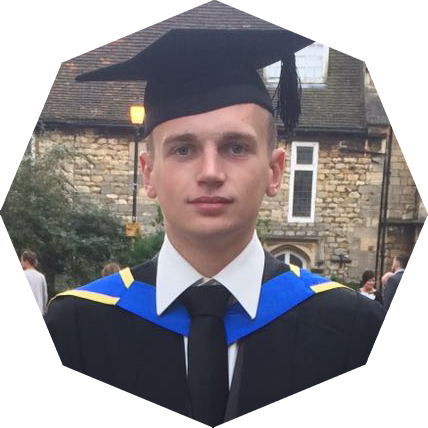
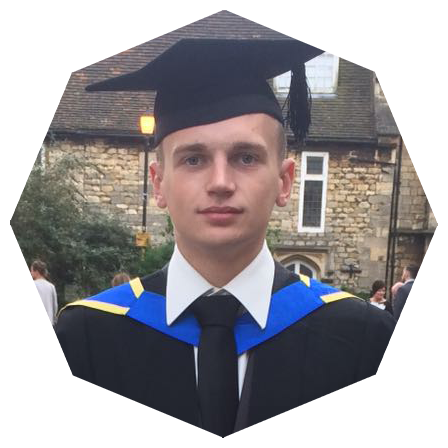
Vertically aligned content on last page, moved side bar to top for mobile, added glow for 3 selfie oct images

diff --git a/index.css b/index.css
@@ -16,21 +16,6 @@ h1 {
 	height: 100vh;
 }
 
-#underCons {
-	position: absolute;
-	top: 100px;
-	left: 75vw;
-	text-align: center;
-	font-size: 30px;
-	transform: rotateZ(25deg);
-	font-family: "Lucida Console", serif;
-	-webkit-animation:   UnderConstructionCycle 2.5s infinite; /* Safari 4+ */
-    -moz-animation:    	 UnderConstructionCycle 2.5s infinite; /* Fx 5+ */
-    -o-animation:      	 UnderConstructionCycle 2.5s infinite; /* Opera 12+ */
-    animation:         	 UnderConstructionCycle 2.5s infinite; /* IE 10+, Fx 29+ */
-    animation-timing-function: ease-in-out;
-}
-
 
 
 @keyframes UnderConstructionCycle {
@@ -87,10 +72,10 @@ h1 {
 	margin: -30px 0 0 -90px;
 }  
 .fixNavArrows h1:nth-child(1){
-	transform: translate( 75px, 0vh) rotateZ(-90deg)	
+	transform: translate( 75px, 0vh) rotateZ(-90deg);
 }  
 .fixNavArrows h1:nth-child(2){
-	transform: translate( 75px, calc(100vh - 200px )) rotateZ(-90deg)	
+	transform: translate( 75px, calc(100vh - 200px )) rotateZ(-90deg);
 }  
 .fixNavArrows h1 a{
 	color: white;
@@ -100,15 +85,19 @@ h1 {
 }
 @media screen and (orientation: portrait) {
 	.sidePanel {
-		visibility: hidden;
-		width: 0px; /*15%*/
+		width: 100vw; 
+		height: 150px;
 	}
 	.largerPanel {
 		width: 100%;
 		left: 0px;
+		height: calc(100vh - 150px);
 	}
 	.fixNavArrows {
 		visibility: hidden;
+	}
+	.sidePanel h1{
+		transform: translate(-50%, -50%);
 	}
 }
 
@@ -233,6 +222,18 @@ h1 {
 .scrollbox::-webkit-scrollbar {
 	width: 8px;
 	height: 8px;
+}
+
+@media screen and (orientation: portrait) {
+	#about {
+		top: calc(100vh + 150px);
+	}
+	#portfolio {
+		top: calc(200vh + 150px);
+	}
+	#contact {
+		top: calc(300vh + 150px);
+	}
 }
 
 

diff --git a/contact.css b/contact.css
@@ -13,7 +13,7 @@ Ligher:		#0a7e07  #366d4d
 	color: #fff;
 	font-family: "Lucida Console", serif;
 	font-size: 50px;
-	margin: 50px auto 50px auto;
+	margin: 0px auto 50px auto; /*margin: 50px auto 50px auto;*/
 	display: block;
 	text-align: center;
 } 
@@ -32,11 +32,16 @@ Ligher:		#0a7e07  #366d4d
 } 
 
 #contactContent{
-	padding-left: 20px;
+	display: inline-block;
+	top: 50vh;
+	left: calc(50vw - 75px);
+	margin: 0 auto;
+	position: absolute;
+	transform: translate(-50%, -50%);
 }
 
 #contact table{
-	padding-left: 60px;
+	/*padding-left: 60px;*/
 	font-family: "Lucida Console", serif;
 	font-size: 25px;
 	margin: 40px auto 20px;
@@ -68,5 +73,10 @@ Ligher:		#0a7e07  #366d4d
 	width: 510px;
 }
 
-
+@media screen and (orientation: portrait) {
+	#contactContent{
+		top: calc(50vh + 75px);
+		left: 50vw;
+	}
+}
 

diff --git a/index.html b/index.html
@@ -19,7 +19,6 @@
 
 <section id="intro" class="page_section">
 <h1>http://www.callumpoole.com/</h1>
-<h2 id="underCons">Mobile Version</br>Coming Soon</h2> 
 <div class="mainImg">
 <img src="images/ProfilePic.png"/>
 </div> 
@@ -254,7 +253,7 @@ Self-assessed on a scale of: no knowledge to advanced.
 <h1>Callum Poole</h1>
 <h2>Programmer & Game Developer</h2>
 
-<table style="width:50%">
+<table>
   <tr>
     <td>Residence: </td>
     <td>Bangkapi, Bangkok, Thailand</td> 
@@ -269,9 +268,6 @@ Self-assessed on a scale of: no knowledge to advanced.
   </tr>
 </table>
 
-<div id="SocialBox">
-
-</div>
 <div id="SocialBox">
 <hr class="hrBars"/>
 <a href="https://www.linkedin.com/in/callum-poole-617523129/">

diff --git a/about.css b/about.css
@@ -2,7 +2,7 @@
 	width: 150px;
 	height: 150px;
 	margin: auto;
-	margin-right: calc(10% - 75px); /*105px*/
+	margin-right: calc(10% - 74px); /*105px*/
 	display: inline-block;
 	position: absolute;
 	right: 0px;
